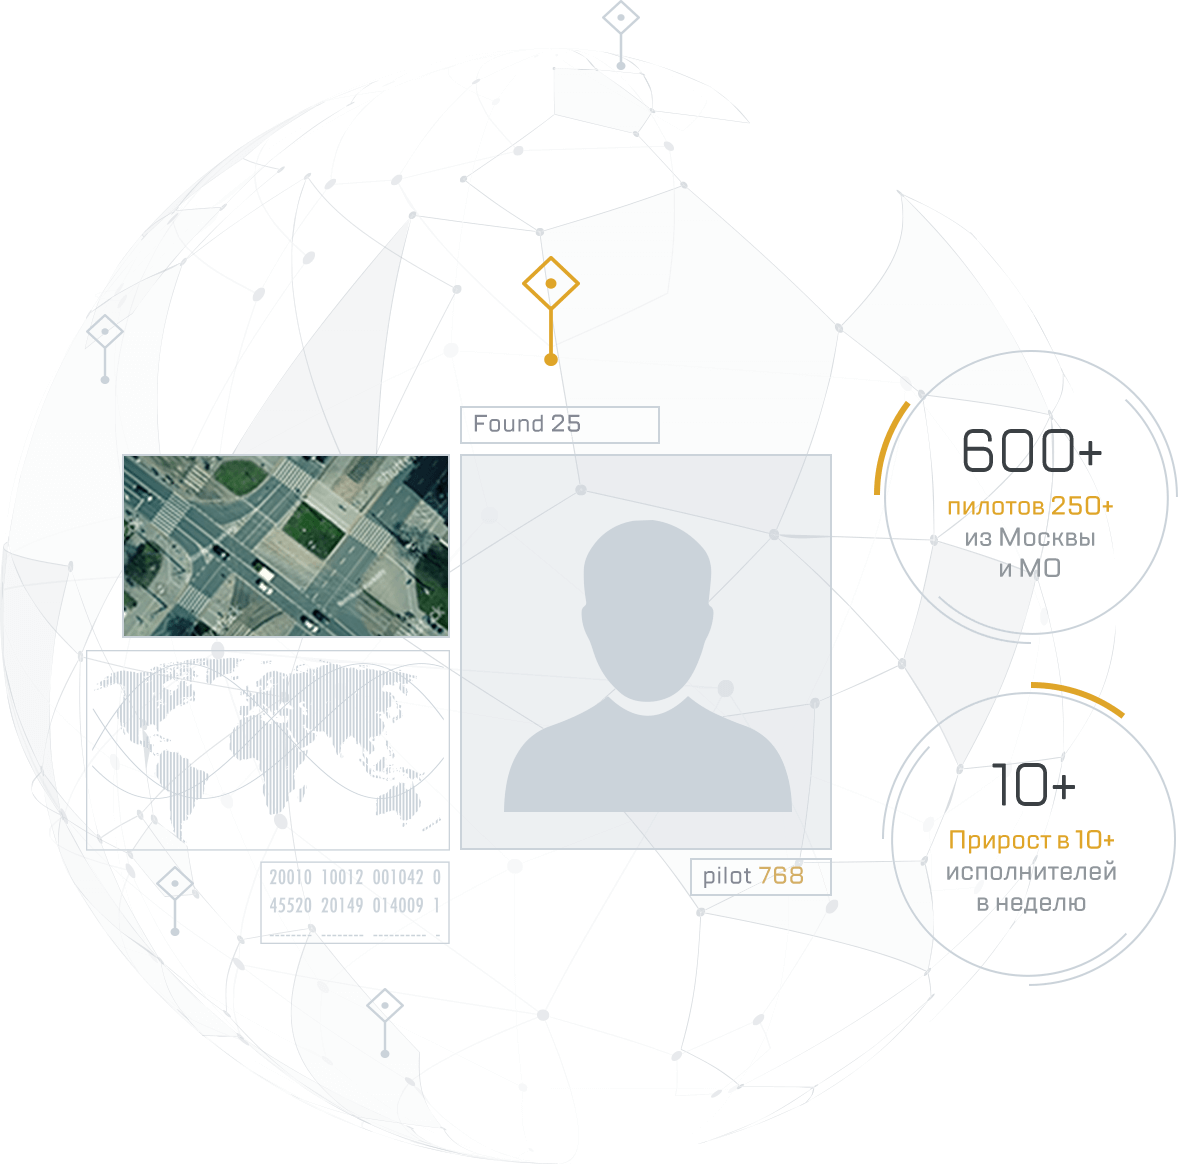
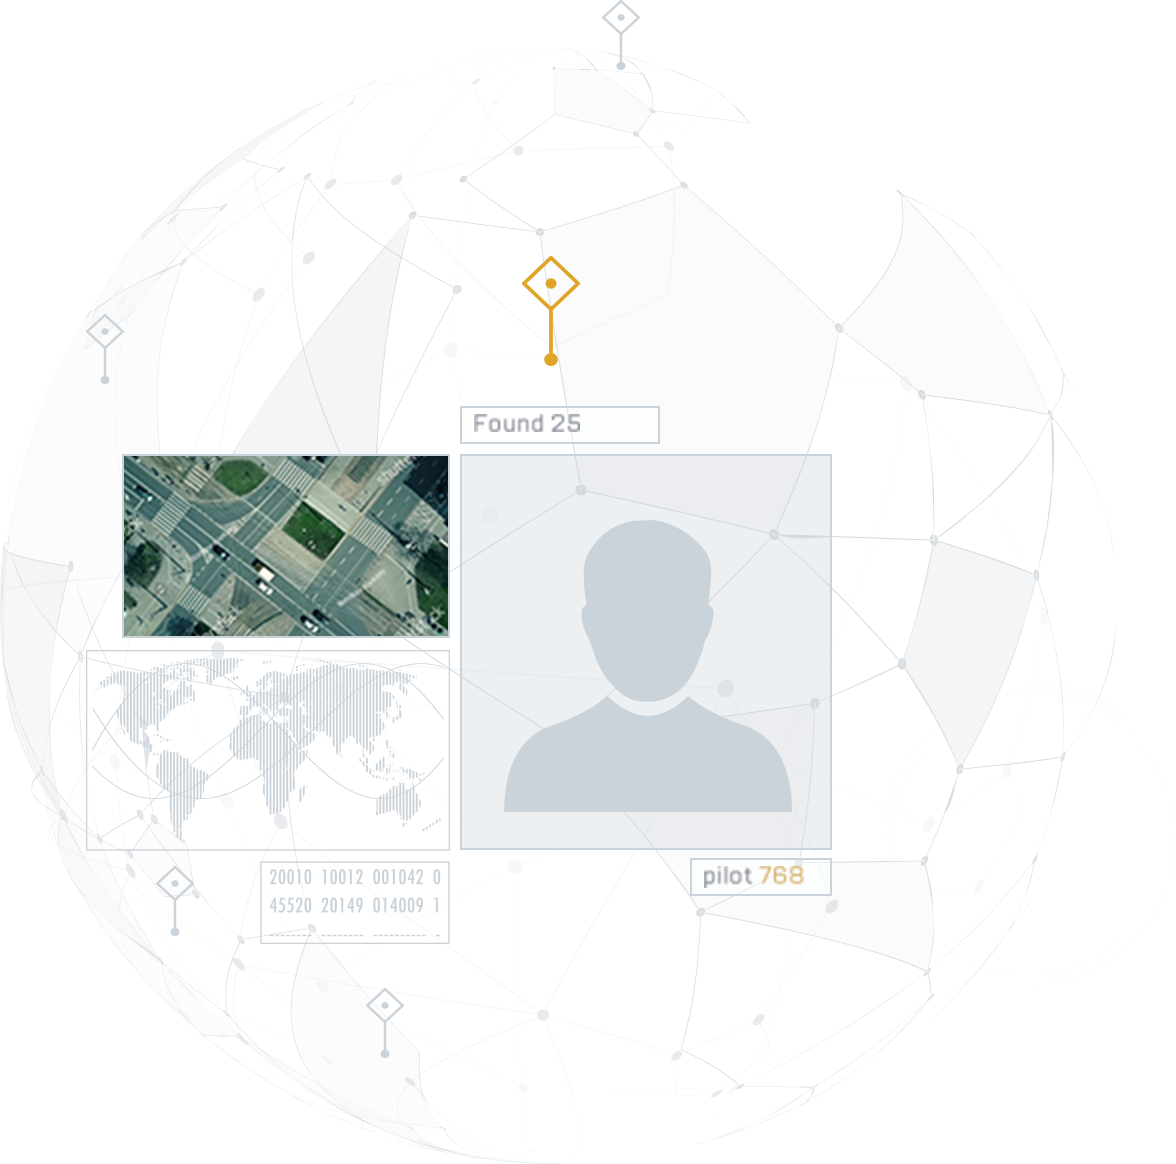
refactor image to text

diff --git a/src/sass/components/_index.sass b/src/sass/components/_index.sass
@@ -230,6 +230,105 @@
       color: $colorOrange
 
 
+.numeric-image
+  position: relative
+  &__block
+    position: absolute
+    text-align: center
+    border-radius: 50%
+    size: 150px
+    display: flex
+    flex-direction: column
+    &-wrapper
+      flex: 1 1 auto
+      width: 100%
+      position: relative
+      display: flex
+      flex-direction: column
+      align-items: center
+      justify-content: center
+    &:nth-child(1)
+      right: 0
+      top: 30%
+      .numeric-image__block-wrapper
+        padding-left: 15px
+    &:nth-child(2)
+      right: 0
+      top: 58%
+      .numeric-image__block-wrapper
+        padding-left: 10px
+  svg
+    position: absolute 0
+    width: 100%
+    height: auto
+    pointer-events: none
+  &__name
+    font-size: 28px
+    font-weight: 400
+    color: #3b4044
+  &__caption
+    font-size: 14px
+    font-weight: 500
+    margin-top: 5px
+    color: $colorYellow
+
+  &__description
+    font-size: 13px
+    color: $grayColor
+
+
++r(1050)
+  .numeric-image
+    position: relative
+    &__block
+      &:nth-child(1)
+        top: 22%
+      &:nth-child(2)
+        top: 65%
+
++r($desktop)
+  .numeric-image
+    &__block
+      size: 130px
+      &:nth-child(1)
+        .numeric-image__block-wrapper
+          padding-left: 7px
+      &:nth-child(2)
+        top: 65%
+        .numeric-image__block-wrapper
+          padding-left: 5px
+    &__name
+      font-size: 24px
+    &__caption
+      font-size: 13px
+
+    &__description
+      font-size: 12px
+
++r($tablet)
+  .numeric-image
+    padding-bottom: 80px
+    &__block
+      &:nth-child(1)
+        top: auto
+        bottom: 0px
+        left: 10%
+        right: auto
+      &:nth-child(2)
+        top: auto
+        bottom: 0px
+        right: 10%
+        left: auto
+
++r(450)
+  .numeric-image
+    padding-bottom: 100px
+    &__block
+      &:nth-child(1)
+        left: 0%
+      &:nth-child(2)
+        right: 10%
+
 
 // MAP
 .map
